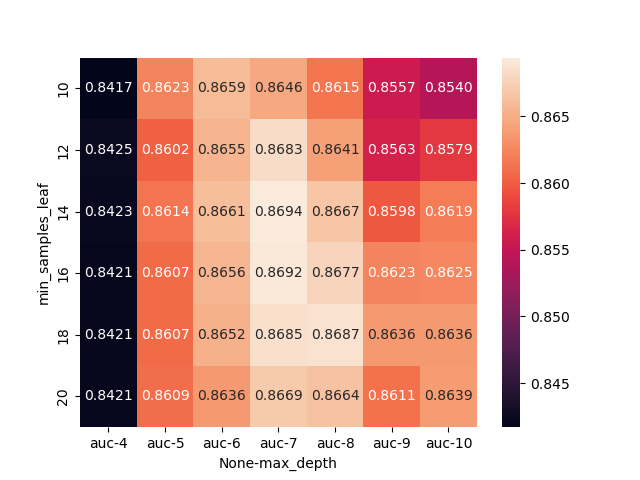
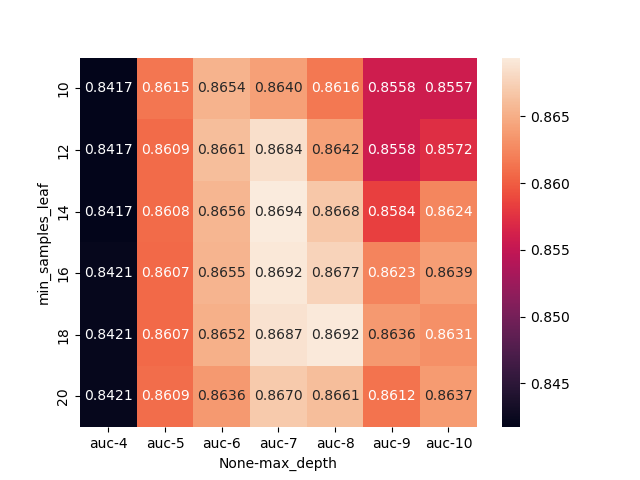
README.md and figs modified

diff --git a/README.md b/README.md
@@ -199,7 +199,7 @@ C	auc
 So the C value that gives the high AUC is C=6.
 
 ```python
-LogisticRegression(max_iter=2000, C=C, class_weight='balanced')
+LogisticRegression(max_iter=2000, C=6, class_weight='balanced')
 ```
 With this setup, the coeficients of the model are:
 ![](https://github.com/carrionalfredo/Spaceship-Titanic/blob/main/images/Fig_01.png)
@@ -207,7 +207,43 @@ With this setup, the coeficients of the model are:
 The ROC Curve for this model is:
 ![](https://github.com/carrionalfredo/Spaceship-Titanic/blob/main/images/Fig_02.png)
 
+### Decision Tree
 
+The next model type employed to train the model was decision tree. In this case, first the model was trained with default parameters.
+```pyhon
+DecisionTreeClassifier()
+```
+With this setup, the valdiation AUC is:
+```python
+0.7384450103453765
+```
+So, the max_depth and min_samples_leaf of the setup were tunned. The results are the following:
+![](https://github.com/carrionalfredo/Spaceship-Titanic/blob/main/images/Fig_03.png)
+From this results, the max_depth = 7 and min_samples_leaf = 14 were selected ot the final decision tree model.
+```python
+DecisionTreeClassifier(max_depth=7, min_samples_leaf=14)
+````
+The ROC Curve for this model is:
+![](https://github.com/carrionalfredo/Spaceship-Titanic/blob/main/images/Fig_04.png)
 
+With this setup, validation the AUC is:
+```python
+0.8688219534192796
+```
 
+### Random Forest
 
+With the base of the decision tree model, , the next model type employed to train the model was random forest classifier. In this case, model was trained with the max_depth parameter value from the decision tree final model, and the parameters min_samples_leaf and n_estimators were tunned, with the following results.
+![](https://github.com/carrionalfredo/Spaceship-Titanic/blob/main/images/Fig_05.png)
+
+From this results, the min_samples_leaf = 3 and n_estimators = 30 were selected ot the final random forest model.
+```python
+RandomForestClassifier(n_estimators=30, max_depth=6, min_samples_leaf=3, random_state=1)
+````
+The ROC Curve for this model is:
+![](https://github.com/carrionalfredo/Spaceship-Titanic/blob/main/images/Fig_06.png)
+
+With this setup, validation the AUC is:
+```python
+0.8806727147328772
+```
